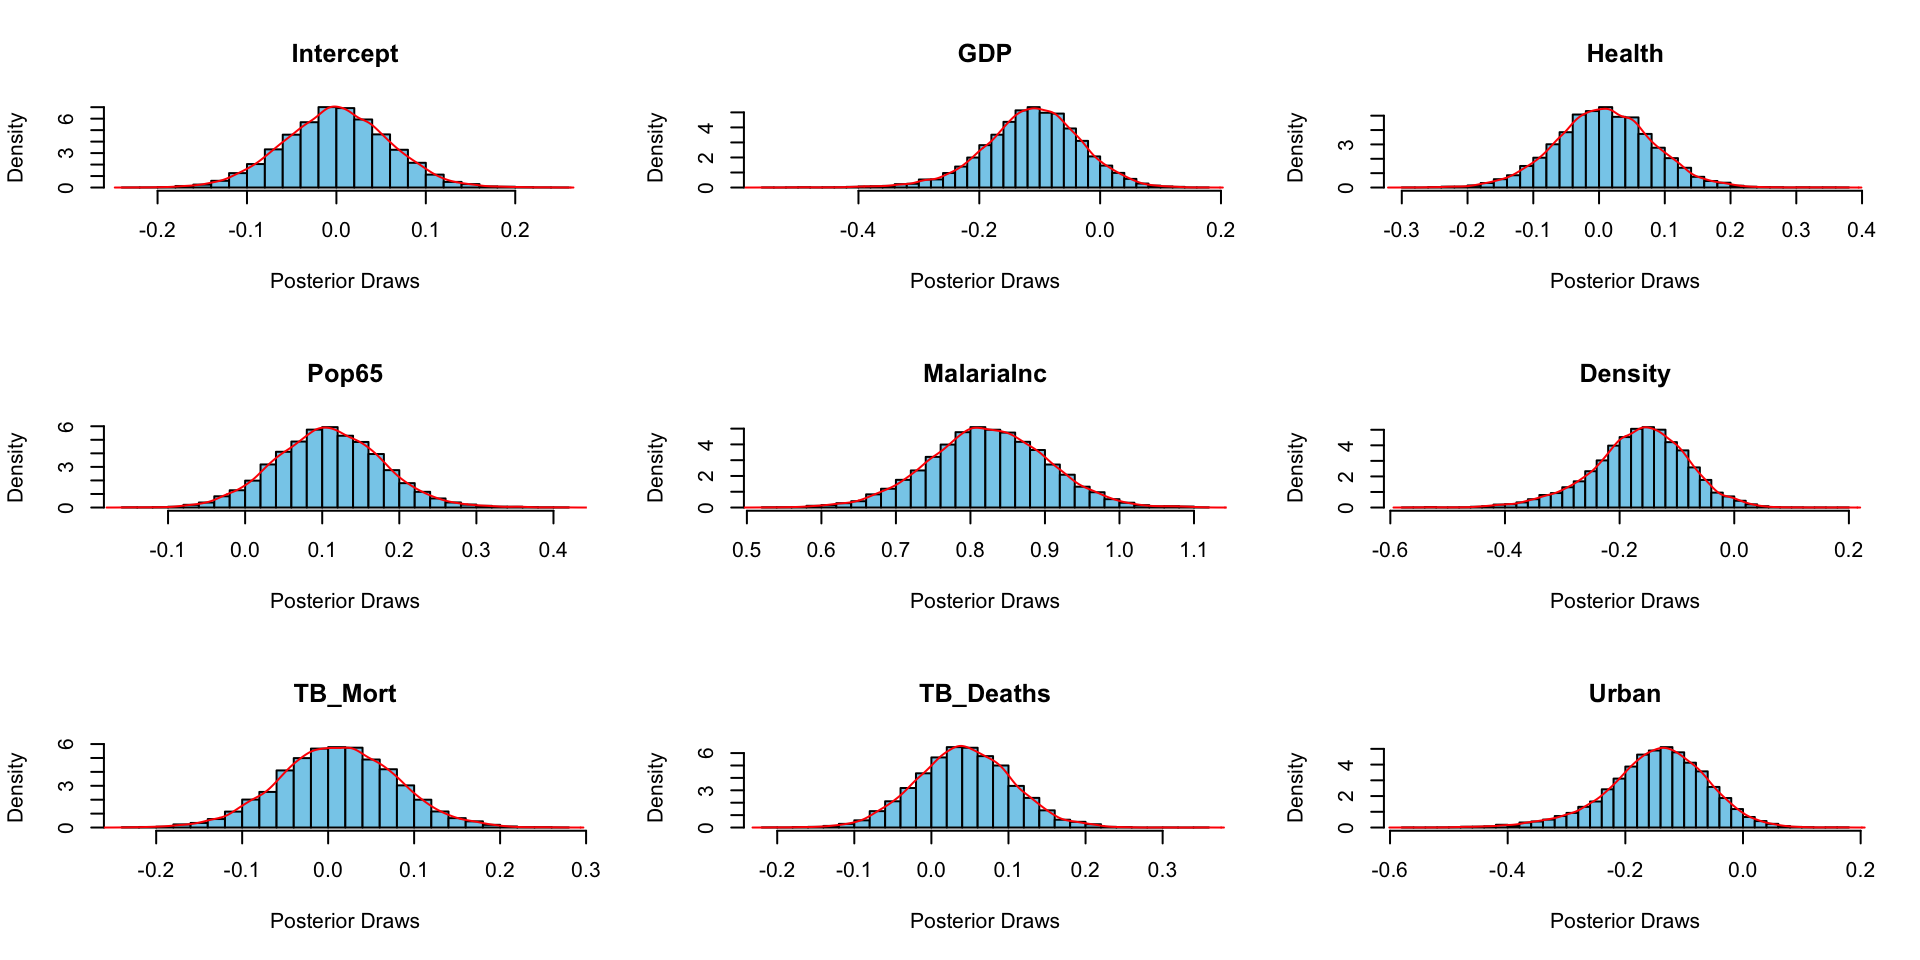
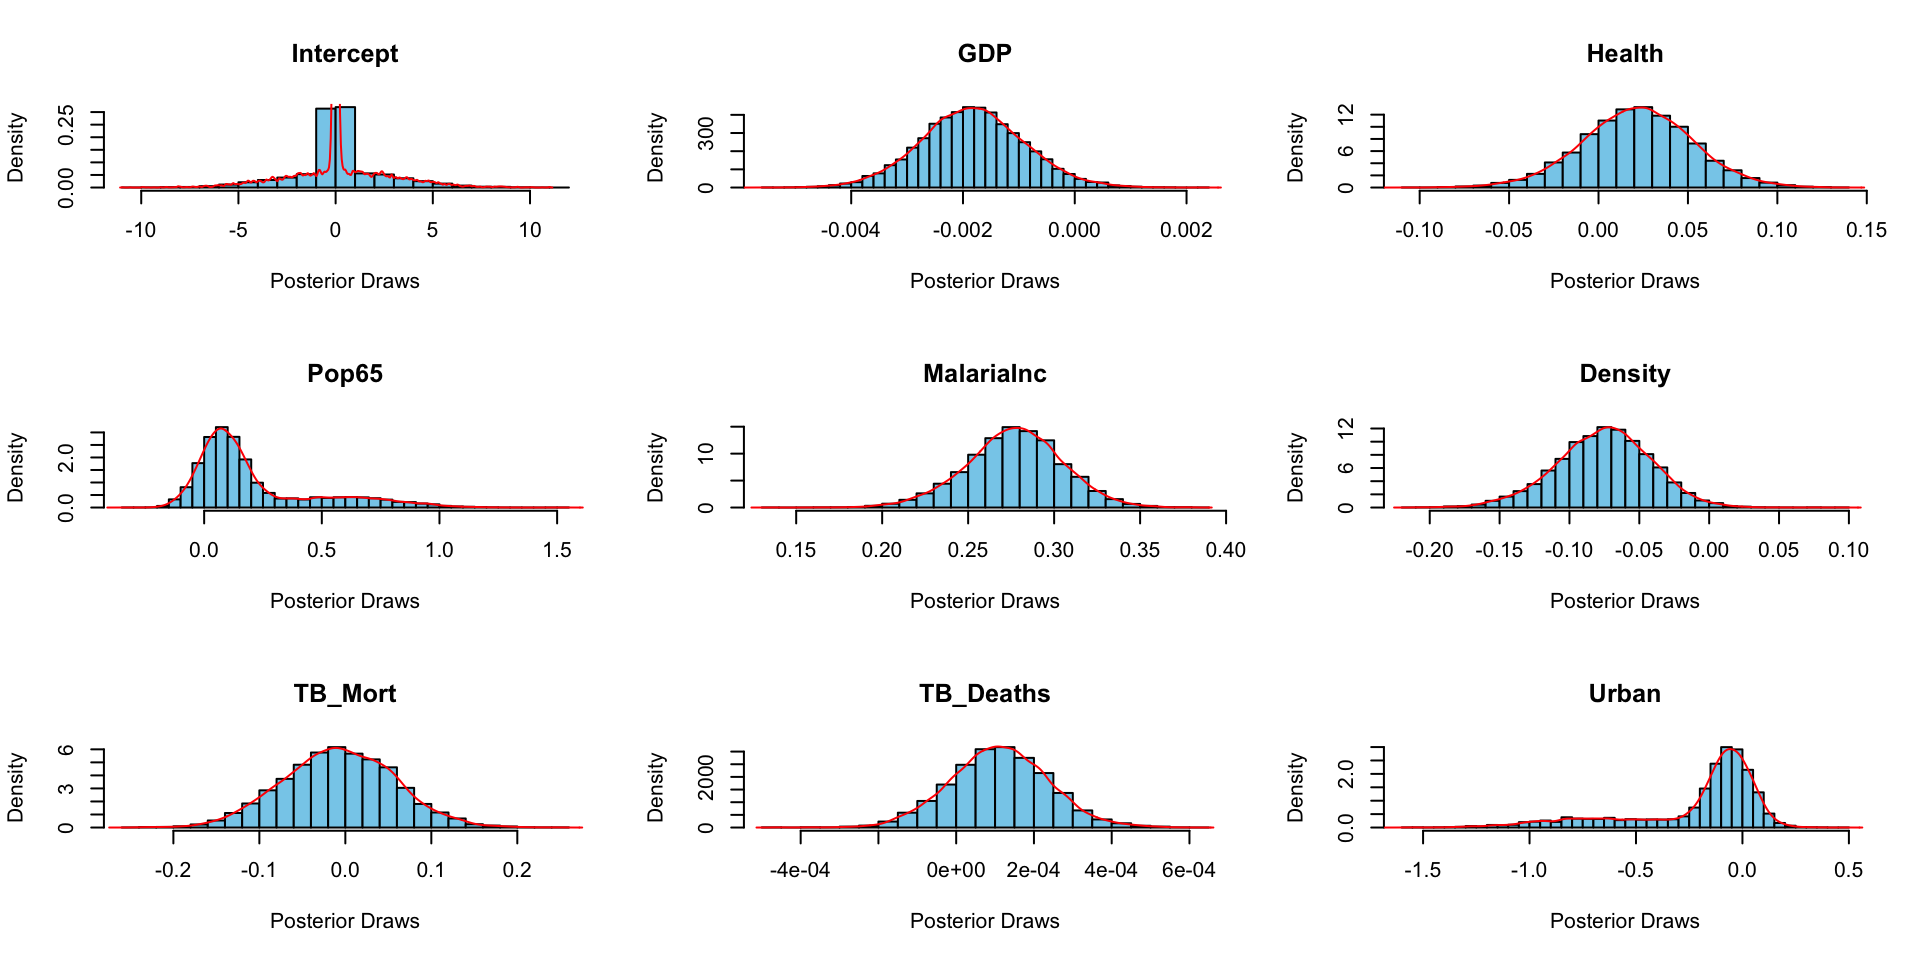
Update

diff --git a/EndTermPresentation.html b/EndTermPresentation.html
@@ -434,13 +434,13 @@ Franz-Xaver Wienerroither and Lucas Stadler
 <pre><code>[1] "Normalized data"</code></pre>
 </div>
 <div class="cell-output cell-output-stdout">
-<pre><code>       GDP Health Pop65 MalariaInc Density TB_Mort TB_Deaths Urban
-[1,]  0.94   0.25  1.12      -0.32   -0.62    0.54      0.30  1.45
-[2,] -0.29  -0.50  0.42       1.29    0.05   -1.12     -0.52  0.35
-[3,] -0.44  -0.41  0.54       1.73   -0.23   -1.15     -0.50 -0.71
-[4,] -0.66  -0.62  0.10      -0.17    2.87   -0.79     -0.47 -1.78
-[5,]  0.02  -0.21 -0.41       0.34   -0.40    0.05     -0.04  1.44
-[6,] -0.61  -0.69 -0.08       1.03   -0.75    2.78     -0.24  0.13</code></pre>
+<pre><code>         GDP Health Pop65 MalariaInc Density TB_Mort TB_Deaths Urban
+[1,] 9516.49 193.01 73.83     187.64   21.85   90.00  24272.73 61.27
+[2,] 2934.26  76.07 68.69     397.96   98.15   13.09   1381.82 44.64
+[3,] 2085.61  90.72 69.59     456.25   66.80   11.94   2145.45 28.63
+[4,]  924.69  58.44 66.41     207.51  415.11   28.64   2909.09 12.56
+[5,] 4574.80 121.58 62.66     274.35   46.91   67.36  14818.18 61.06
+[6,] 1224.41  47.11 65.09     364.89    7.50  193.82   9354.55 41.39</code></pre>
 </div>
 </div>
 </section>
@@ -505,24 +505,24 @@ Call:
 lm(formula = Y ~ . - Intercept, data = M_scale)
 
 Residuals:
-     Min       1Q   Median       3Q      Max 
--0.78419 -0.19350 -0.00145  0.19121  1.11901 
+    Min      1Q  Median      3Q     Max 
+-33.658  -8.305  -0.062   8.207  48.029 
 
 Coefficients:
               Estimate Std. Error t value Pr(&gt;|t|)    
-(Intercept)  3.595e-16  6.856e-02   0.000  1.00000    
-GDP         -1.943e-01  1.069e-01  -1.817  0.07956 .  
-Health       1.026e-01  1.099e-01   0.933  0.35840    
-Pop65        2.067e-01  7.908e-02   2.614  0.01405 *  
-MalariaInc   8.215e-01  7.640e-02  10.753 1.24e-11 ***
-Density     -2.828e-01  8.244e-02  -3.430  0.00183 ** 
-TB_Mort     -7.404e-03  8.717e-02  -0.085  0.93289    
-TB_Deaths    7.851e-02  7.445e-02   1.055  0.30033    
-Urban       -2.689e-01  9.078e-02  -2.962  0.00604 ** 
+(Intercept) -4.157e+01  3.006e+01  -1.383  0.17724    
+GDP         -1.552e-03  8.540e-04  -1.817  0.07956 .  
+Health       2.846e-02  3.049e-02   0.933  0.35840    
+Pop65        1.210e+00  4.631e-01   2.614  0.01405 *  
+MalariaInc   2.699e-01  2.510e-02  10.753 1.24e-11 ***
+Density     -1.078e-01  3.142e-02  -3.430  0.00183 ** 
+TB_Mort     -6.866e-03  8.083e-02  -0.085  0.93289    
+TB_Deaths    1.217e-04  1.154e-04   1.055  0.30033    
+Urban       -7.668e-01  2.589e-01  -2.962  0.00604 ** 
 ---
 Signif. codes:  0 '***' 0.001 '**' 0.01 '*' 0.05 '.' 0.1 ' ' 1
 
-Residual standard error: 0.4226 on 29 degrees of freedom
+Residual standard error: 18.14 on 29 degrees of freedom
 Multiple R-squared:   0.86, Adjusted R-squared:  0.8214 
 F-statistic: 22.27 on 8 and 29 DF,  p-value: 2.033e-10</code></pre>
 </div>
@@ -674,15 +674,15 @@ F-statistic: 22.27 on 8 and 29 DF,  p-value: 2.033e-10</code></pre>
 <div class="cell">
 <div class="cell-output cell-output-stdout">
 <pre><code>    Variable   PIP PostMean
-5 MalariaInc 1.000    0.824
-6    Density 0.206   -0.166
-9      Urban 0.172   -0.147
-2        GDP 0.107   -0.112
-4      Pop65 0.091    0.109
-8  TB_Deaths 0.044    0.043
-3     Health 0.043    0.008
-7    TB_Mort 0.043    0.011
-1  Intercept 0.037    0.000</code></pre>
+5 MalariaInc 0.588    0.277
+1  Intercept 0.491    0.137
+9      Urban 0.304   -0.214
+4      Pop65 0.298    0.207
+6    Density 0.046   -0.076
+7    TB_Mort 0.042   -0.007
+3     Health 0.032    0.022
+8  TB_Deaths 0.030    0.000
+2        GDP 0.029   -0.002</code></pre>
 </div>
 </div>
 </section>
@@ -694,27 +694,27 @@ F-statistic: 22.27 on 8 and 29 DF,  p-value: 2.033e-10</code></pre>
 <h2>Summary Alpha</h2>
 <div class="cell">
 <div class="cell-output cell-output-stdout">
-<pre><code>   Intercept               GDP               Health              Pop65        
- Min.   :-0.2228527   Min.   :-0.55448   Min.   :-0.290115   Min.   :-0.1504  
- 1st Qu.:-0.0391020   1st Qu.:-0.16073   1st Qu.:-0.039970   1st Qu.: 0.0622  
- Median : 0.0001859   Median :-0.10903   Median : 0.007789   Median : 0.1079  
- Mean   : 0.0001285   Mean   :-0.11234   Mean   : 0.008054   Mean   : 0.1088  
- 3rd Qu.: 0.0390459   3rd Qu.:-0.05937   3rd Qu.: 0.056455   3rd Qu.: 0.1541  
- Max.   : 0.2401192   Max.   : 0.17068   Max.   : 0.368216   Max.   : 0.4184  
-   MalariaInc        Density           TB_Mort           TB_Deaths        
- Min.   :0.5202   Min.   :-0.5608   Min.   :-0.23685   Min.   :-0.205681  
- 1st Qu.:0.7715   1st Qu.:-0.2147   1st Qu.:-0.03404   1st Qu.: 0.001402  
- Median :0.8231   Median :-0.1605   Median : 0.01104   Median : 0.042171  
- Mean   :0.8237   Mean   :-0.1659   Mean   : 0.01123   Mean   : 0.042603  
- 3rd Qu.:0.8773   3rd Qu.:-0.1095   3rd Qu.: 0.05705   3rd Qu.: 0.083865  
- Max.   :1.1117   Max.   : 0.1860   Max.   : 0.26798   Max.   : 0.353189  
-     Urban         
- Min.   :-0.56686  
- 1st Qu.:-0.19647  
- Median :-0.14123  
- Mean   :-0.14681  
- 3rd Qu.:-0.08898  
- Max.   : 0.17247  </code></pre>
+<pre><code>   Intercept               GDP                Health         
+ Min.   :-10.953778   Min.   :-0.005596   Min.   :-0.106725  
+ 1st Qu.: -0.150533   1st Qu.:-0.002445   1st Qu.: 0.001466  
+ Median :  0.009463   Median :-0.001840   Median : 0.021988  
+ Mean   :  0.136925   Mean   :-0.001829   Mean   : 0.021712  
+ 3rd Qu.:  0.262132   3rd Qu.:-0.001226   3rd Qu.: 0.042293  
+ Max.   : 11.014724   Max.   : 0.002225   Max.   : 0.135497  
+     Pop65            MalariaInc        Density            TB_Mort         
+ Min.   :-0.33830   Min.   :0.1356   Min.   :-0.21129   Min.   :-0.246962  
+ 1st Qu.: 0.03686   1st Qu.:0.2591   1st Qu.:-0.09733   1st Qu.:-0.051045  
+ Median : 0.11672   Median :0.2774   Median :-0.07440   Median :-0.007435  
+ Mean   : 0.20661   Mean   :0.2768   Mean   :-0.07564   Mean   :-0.007466  
+ 3rd Qu.: 0.26582   3rd Qu.:0.2955   3rd Qu.:-0.05283   3rd Qu.: 0.036887  
+ Max.   : 1.53580   Max.   :0.3800   Max.   : 0.09426   Max.   : 0.247767  
+   TB_Deaths              Urban         
+ Min.   :-4.602e-04   Min.   :-1.59573  
+ 1st Qu.: 2.823e-05   1st Qu.:-0.27432  
+ Median : 1.110e-04   Median :-0.09711  
+ Mean   : 1.115e-04   Mean   :-0.21363  
+ 3rd Qu.: 1.954e-04   3rd Qu.:-0.01285  
+ Max.   : 6.082e-04   Max.   : 0.47940  </code></pre>
 </div>
 </div>
 </section>
@@ -722,13 +722,13 @@ F-statistic: 22.27 on 8 and 29 DF,  p-value: 2.033e-10</code></pre>
 <h2>Summary Sigma</h2>
 <div class="cell">
 <div class="cell-output cell-output-stdout">
-<pre><code>     Sigma        
- Min.   :0.07692  
- 1st Qu.:0.16515  
- Median :0.19752  
- Mean   :0.20675  
- 3rd Qu.:0.23760  
- Max.   :0.64148  </code></pre>
+<pre><code>     Sigma       
+ Min.   : 155.0  
+ 1st Qu.: 335.9  
+ Median : 401.6  
+ Mean   : 420.5  
+ 3rd Qu.: 483.1  
+ Max.   :1398.6  </code></pre>
 </div>
 </div>
 </section>
@@ -736,26 +736,26 @@ F-statistic: 22.27 on 8 and 29 DF,  p-value: 2.033e-10</code></pre>
 <h2>Summary Gamma</h2>
 <div class="cell">
 <div class="cell-output cell-output-stdout">
-<pre><code>   Intercept           GDP             Health           Pop65      
- Min.   :0.0000   Min.   :0.0000   Min.   :0.0000   Min.   :0.000  
- 1st Qu.:0.0000   1st Qu.:0.0000   1st Qu.:0.0000   1st Qu.:0.000  
- Median :0.0000   Median :0.0000   Median :0.0000   Median :0.000  
- Mean   :0.0366   Mean   :0.1067   Mean   :0.0428   Mean   :0.091  
- 3rd Qu.:0.0000   3rd Qu.:0.0000   3rd Qu.:0.0000   3rd Qu.:0.000  
- Max.   :1.0000   Max.   :1.0000   Max.   :1.0000   Max.   :1.000  
-   MalariaInc    Density          TB_Mort         TB_Deaths     
- Min.   :1    Min.   :0.0000   Min.   :0.0000   Min.   :0.0000  
- 1st Qu.:1    1st Qu.:0.0000   1st Qu.:0.0000   1st Qu.:0.0000  
- Median :1    Median :0.0000   Median :0.0000   Median :0.0000  
- Mean   :1    Mean   :0.2061   Mean   :0.0427   Mean   :0.0435  
- 3rd Qu.:1    3rd Qu.:0.0000   3rd Qu.:0.0000   3rd Qu.:0.0000  
- Max.   :1    Max.   :1.0000   Max.   :1.0000   Max.   :1.0000  
+<pre><code>   Intercept           GDP             Health           Pop65       
+ Min.   :0.0000   Min.   :0.0000   Min.   :0.0000   Min.   :0.0000  
+ 1st Qu.:0.0000   1st Qu.:0.0000   1st Qu.:0.0000   1st Qu.:0.0000  
+ Median :0.0000   Median :0.0000   Median :0.0000   Median :0.0000  
+ Mean   :0.4907   Mean   :0.0287   Mean   :0.0324   Mean   :0.2981  
+ 3rd Qu.:1.0000   3rd Qu.:0.0000   3rd Qu.:0.0000   3rd Qu.:1.0000  
+ Max.   :1.0000   Max.   :1.0000   Max.   :1.0000   Max.   :1.0000  
+   MalariaInc        Density          TB_Mort         TB_Deaths     
+ Min.   :0.0000   Min.   :0.0000   Min.   :0.0000   Min.   :0.0000  
+ 1st Qu.:0.0000   1st Qu.:0.0000   1st Qu.:0.0000   1st Qu.:0.0000  
+ Median :1.0000   Median :0.0000   Median :0.0000   Median :0.0000  
+ Mean   :0.5885   Mean   :0.0461   Mean   :0.0417   Mean   :0.0295  
+ 3rd Qu.:1.0000   3rd Qu.:0.0000   3rd Qu.:0.0000   3rd Qu.:0.0000  
+ Max.   :1.0000   Max.   :1.0000   Max.   :1.0000   Max.   :1.0000  
      Urban       
  Min.   :0.0000  
  1st Qu.:0.0000  
  Median :0.0000  
- Mean   :0.1722  
- 3rd Qu.:0.0000  
+ Mean   :0.3037  
+ 3rd Qu.:1.0000  
  Max.   :1.0000  </code></pre>
 </div>
 </div>
@@ -764,51 +764,92 @@ F-statistic: 22.27 on 8 and 29 DF,  p-value: 2.033e-10</code></pre>
 <h2>Posterior Inclusion Probabilities</h2>
 
 <img data-src="EndTermPresentation_files/figure-revealjs/unnamed-chunk-18-1.png" width="960" class="r-stretch"></section></section>
+<section>
 <section id="leave-one-out" class="title-slide slide level1 center">
 <h1>Leave-one-out</h1>
+
+</section>
+<section id="hyperparameters" class="slide level2">
+<h2>Hyperparameters</h2>
+</section>
+<section id="loo" class="slide level2">
+<h2>LOO</h2>
 <div class="cell">
-<div class="cell-output cell-output-stdout">
-<pre><code>LOO fold 1 of 38 
-LOO fold 2 of 38 
-LOO fold 3 of 38 
-LOO fold 4 of 38 
-LOO fold 5 of 38 
-LOO fold 6 of 38 
-LOO fold 7 of 38 
-LOO fold 8 of 38 
-LOO fold 9 of 38 
-LOO fold 10 of 38 
-LOO fold 11 of 38 
-LOO fold 12 of 38 
-LOO fold 13 of 38 
-LOO fold 14 of 38 
-LOO fold 15 of 38 
-LOO fold 16 of 38 
-LOO fold 17 of 38 
-LOO fold 18 of 38 
-LOO fold 19 of 38 
-LOO fold 20 of 38 
-LOO fold 21 of 38 
-LOO fold 22 of 38 
-LOO fold 23 of 38 
-LOO fold 24 of 38 
-LOO fold 25 of 38 
-LOO fold 26 of 38 
-LOO fold 27 of 38 
-LOO fold 28 of 38 
-LOO fold 29 of 38 
-LOO fold 30 of 38 
-LOO fold 31 of 38 
-LOO fold 32 of 38 
-LOO fold 33 of 38 
-LOO fold 34 of 38 
-LOO fold 35 of 38 
-LOO fold 36 of 38 
-LOO fold 37 of 38 
-LOO fold 38 of 38 </code></pre>
+<div class="sourceCode cell-code" id="cb20"><pre class="sourceCode numberSource r number-lines code-with-copy"><code class="sourceCode r"><span id="cb20-1"><a href=""></a><span class="co"># ---------- 3. LOO loop --------------------------------------------------</span></span>
+<span id="cb20-2"><a href=""></a><span class="cf">for</span> (i <span class="cf">in</span> <span class="dv">1</span><span class="sc">:</span>N) {</span>
+<span id="cb20-3"><a href=""></a>  <span class="fu">cat</span>(<span class="st">"LOO fold"</span>, i, <span class="st">"of"</span>, N, <span class="st">"</span><span class="sc">\n</span><span class="st">"</span>)</span>
+<span id="cb20-4"><a href=""></a>  </span>
+<span id="cb20-5"><a href=""></a>  X_train <span class="ot">&lt;-</span> X_scaled[<span class="sc">-</span>i, ]</span>
+<span id="cb20-6"><a href=""></a>  Y_train <span class="ot">&lt;-</span> Y_scaled[<span class="sc">-</span>i]</span>
+<span id="cb20-7"><a href=""></a>  X_test  <span class="ot">&lt;-</span> X_scaled[i, , drop <span class="ot">=</span> <span class="cn">FALSE</span>]</span>
+<span id="cb20-8"><a href=""></a>  </span>
+<span id="cb20-9"><a href=""></a>  <span class="co"># ----- OLS starting values ----------</span></span>
+<span id="cb20-10"><a href=""></a>  A.OLS <span class="ot">&lt;-</span> <span class="fu">solve</span>(<span class="fu">crossprod</span>(X_train)) <span class="sc">%*%</span> <span class="fu">crossprod</span>(X_train, Y_train)</span>
+<span id="cb20-11"><a href=""></a>  SSE   <span class="ot">&lt;-</span> <span class="fu">crossprod</span>(Y_train <span class="sc">-</span> X_train <span class="sc">%*%</span> A.OLS)</span>
+<span id="cb20-12"><a href=""></a>  SIG.OLS <span class="ot">&lt;-</span> SSE <span class="sc">/</span> (N<span class="dv">-1</span> <span class="sc">-</span> K)</span>
+<span id="cb20-13"><a href=""></a>  </span>
+<span id="cb20-14"><a href=""></a>  gamma <span class="ot">&lt;-</span> <span class="fu">matrix</span>(<span class="dv">1</span>, K, <span class="dv">1</span>)</span>
+<span id="cb20-15"><a href=""></a>  sigma2.draw <span class="ot">&lt;-</span> <span class="fu">as.numeric</span>(SIG.OLS)</span>
+<span id="cb20-16"><a href=""></a>  V.prior <span class="ot">&lt;-</span> <span class="fu">diag</span>(<span class="fu">as.numeric</span>(gamma <span class="sc">*</span> tau1 <span class="sc">+</span> (<span class="dv">1</span><span class="sc">-</span>gamma) <span class="sc">*</span> tau0))</span>
+<span id="cb20-17"><a href=""></a>  </span>
+<span id="cb20-18"><a href=""></a>  <span class="co"># storage for this fold</span></span>
+<span id="cb20-19"><a href=""></a>  alpha_keep  <span class="ot">&lt;-</span> <span class="fu">matrix</span>(<span class="cn">NA</span>, nsave, K)</span>
+<span id="cb20-20"><a href=""></a>  gamma_keep  <span class="ot">&lt;-</span> <span class="fu">matrix</span>(<span class="cn">NA</span>, nsave, K)</span>
+<span id="cb20-21"><a href=""></a>  sigma_keep  <span class="ot">&lt;-</span> <span class="fu">numeric</span>(nsave)</span>
+<span id="cb20-22"><a href=""></a>  y_pred_keep <span class="ot">&lt;-</span> <span class="fu">numeric</span>(nsave)</span>
+<span id="cb20-23"><a href=""></a><span class="co"># ------------- Gibbs sampler -----------------</span></span>
+<span id="cb20-24"><a href=""></a>  <span class="cf">for</span> (rep <span class="cf">in</span> <span class="dv">1</span><span class="sc">:</span>ntot){</span>
+<span id="cb20-25"><a href=""></a>    </span>
+<span id="cb20-26"><a href=""></a>    <span class="co"># 1. β | rest</span></span>
+<span id="cb20-27"><a href=""></a>    V.post <span class="ot">&lt;-</span> <span class="fu">solve</span>(<span class="fu">crossprod</span>(X_train) <span class="sc">/</span> sigma2.draw <span class="sc">+</span></span>
+<span id="cb20-28"><a href=""></a>                      <span class="fu">diag</span>(<span class="dv">1</span> <span class="sc">/</span> <span class="fu">diag</span>(V.prior)))</span>
+<span id="cb20-29"><a href=""></a>    A.post <span class="ot">&lt;-</span> V.post <span class="sc">%*%</span> (<span class="fu">crossprod</span>(X_train, Y_train) <span class="sc">/</span> sigma2.draw)</span>
+<span id="cb20-30"><a href=""></a>    A.draw <span class="ot">&lt;-</span> A.post <span class="sc">+</span> <span class="fu">t</span>(<span class="fu">chol</span>(V.post)) <span class="sc">%*%</span> <span class="fu">rnorm</span>(K)</span>
+<span id="cb20-31"><a href=""></a>    </span>
+<span id="cb20-32"><a href=""></a>    <span class="co"># 2. γ | rest</span></span>
+<span id="cb20-33"><a href=""></a>    <span class="cf">for</span> (j <span class="cf">in</span> <span class="dv">1</span><span class="sc">:</span>K){</span>
+<span id="cb20-34"><a href=""></a>      p0 <span class="ot">&lt;-</span> <span class="fu">dnorm</span>(A.draw[j], <span class="dv">0</span>, <span class="fu">sqrt</span>(tau0))</span>
+<span id="cb20-35"><a href=""></a>      p1 <span class="ot">&lt;-</span> <span class="fu">dnorm</span>(A.draw[j], <span class="dv">0</span>, <span class="fu">sqrt</span>(tau1))</span>
+<span id="cb20-36"><a href=""></a>      gamma[j] <span class="ot">&lt;-</span> <span class="fu">rbinom</span>(<span class="dv">1</span>, <span class="dv">1</span>, p1<span class="sc">/</span>(p0<span class="sc">+</span>p1))</span>
+<span id="cb20-37"><a href=""></a>    }</span>
+<span id="cb20-38"><a href=""></a>    V.prior <span class="ot">&lt;-</span> <span class="fu">diag</span>(<span class="fu">as.numeric</span>(gamma <span class="sc">*</span> tau1 <span class="sc">+</span> (<span class="dv">1</span><span class="sc">-</span>gamma) <span class="sc">*</span> tau0))</span>
+<span id="cb20-39"><a href=""></a>    </span>
+<span id="cb20-40"><a href=""></a>    <span class="co"># 3. σ² | rest</span></span>
+<span id="cb20-41"><a href=""></a>    S.post <span class="ot">&lt;-</span> <span class="fu">crossprod</span>(Y_train <span class="sc">-</span> X_train <span class="sc">%*%</span> A.draw)<span class="sc">/</span><span class="dv">2</span> <span class="sc">+</span> S0</span>
+<span id="cb20-42"><a href=""></a>    s.post <span class="ot">&lt;-</span> S0 <span class="sc">+</span> (N<span class="dv">-1</span>)<span class="sc">/</span><span class="dv">2</span></span>
+<span id="cb20-43"><a href=""></a>    sigma2.draw <span class="ot">&lt;-</span> <span class="dv">1</span> <span class="sc">/</span> <span class="fu">rgamma</span>(<span class="dv">1</span>, s.post, S.post)</span>
+<span id="cb20-44"><a href=""></a>    </span>
+<span id="cb20-45"><a href=""></a>    <span class="co"># ---- store after burn-in</span></span>
+<span id="cb20-46"><a href=""></a>    <span class="cf">if</span> (rep <span class="sc">&gt;</span> nburn) {</span>
+<span id="cb20-47"><a href=""></a>      m <span class="ot">&lt;-</span> rep <span class="sc">-</span> nburn</span>
+<span id="cb20-48"><a href=""></a>      alpha_keep[m, ]  <span class="ot">&lt;-</span> A.draw</span>
+<span id="cb20-49"><a href=""></a>      gamma_keep[m, ]  <span class="ot">&lt;-</span> gamma</span>
+<span id="cb20-50"><a href=""></a>      sigma_keep[m]    <span class="ot">&lt;-</span> sigma2.draw</span>
+<span id="cb20-51"><a href=""></a>      y_pred_keep[m]   <span class="ot">&lt;-</span> X_test <span class="sc">%*%</span> A.draw                <span class="co"># mean prediction</span></span>
+<span id="cb20-52"><a href=""></a>    }</span>
+<span id="cb20-53"><a href=""></a>  } <span class="co"># end Gibbs</span></span>
+<span id="cb20-54"><a href=""></a></span>
+<span id="cb20-55"><a href=""></a><span class="co"># Posterior predictive mean for left-out obs</span></span>
+<span id="cb20-56"><a href=""></a>  pred_scaled[i] <span class="ot">&lt;-</span> <span class="fu">mean</span>(y_pred_keep)</span>
+<span id="cb20-57"><a href=""></a>  pip_mat[i, ]   <span class="ot">&lt;-</span> <span class="fu">colMeans</span>(gamma_keep)</span>
+<span id="cb20-58"><a href=""></a>}</span></code><button title="Copy to Clipboard" class="code-copy-button"><i class="bi"></i></button></pre></div>
 </div>
-</div>
+</section>
+<section id="back-transform-predictions-and-evaluate" class="slide level2">
+<h2>Back transform predictions and evaluate</h2>
 <div class="cell">
+<div class="sourceCode cell-code" id="cb21"><pre class="sourceCode numberSource r number-lines code-with-copy"><code class="sourceCode r"><span id="cb21-1"><a href=""></a><span class="co"># ---------- 4. Back-transform predictions &amp; evaluate  --------------------</span></span>
+<span id="cb21-2"><a href=""></a>pred_original <span class="ot">&lt;-</span> pred_scaled <span class="sc">*</span> Y_sd <span class="sc">+</span> Y_mean</span>
+<span id="cb21-3"><a href=""></a></span>
+<span id="cb21-4"><a href=""></a>loo_results <span class="ot">&lt;-</span> <span class="fu">data.frame</span>(</span>
+<span id="cb21-5"><a href=""></a>  <span class="at">Country   =</span> dat<span class="sc">$</span>Entity.x,</span>
+<span id="cb21-6"><a href=""></a>  <span class="at">True      =</span> Y_raw,</span>
+<span id="cb21-7"><a href=""></a>  <span class="at">Predicted =</span> pred_original,</span>
+<span id="cb21-8"><a href=""></a>  <span class="at">Error     =</span> pred_original <span class="sc">-</span> Y_raw,</span>
+<span id="cb21-9"><a href=""></a>  <span class="at">MSE =</span> (pred_original <span class="sc">-</span> Y_raw)<span class="sc">^</span><span class="dv">2</span></span>
+<span id="cb21-10"><a href=""></a>)</span>
+<span id="cb21-11"><a href=""></a></span>
+<span id="cb21-12"><a href=""></a><span class="fu">print</span>(<span class="fu">head</span>(loo_results, <span class="dv">10</span>))</span></code><button title="Copy to Clipboard" class="code-copy-button"><i class="bi"></i></button></pre></div>
 <div class="cell-output cell-output-stdout">
 <pre><code>                    Country       True Predicted       Error          MSE
 1                    Angola  46.794897  42.63434  -4.1605555   17.3102220
@@ -822,10 +863,14 @@ LOO fold 38 of 38 </code></pre>
 9                     Congo  40.665282  41.84449   1.1792105    1.3905375
 10            Cote d'Ivoire  68.569683  74.42511   5.8554265   34.2860190</code></pre>
 </div>
+<div class="sourceCode cell-code" id="cb23"><pre class="sourceCode numberSource r number-lines code-with-copy"><code class="sourceCode r"><span id="cb23-1"><a href=""></a><span class="fu">cat</span>(<span class="st">"RMSE: "</span>, <span class="fu">sqrt</span>(<span class="fu">mean</span>(loo_results<span class="sc">$</span>Error<span class="sc">^</span><span class="dv">2</span>)), <span class="st">"</span><span class="sc">\n</span><span class="st">"</span>)</span></code><button title="Copy to Clipboard" class="code-copy-button"><i class="bi"></i></button></pre></div>
 <div class="cell-output cell-output-stdout">
 <pre><code>RMSE:  23.02725 </code></pre>
 </div>
 </div>
+</section>
+<section id="posterior-inclusion-probabilities-1" class="slide level2">
+<h2>Posterior inclusion probabilities</h2>
 <div class="cell">
 <div class="cell-output cell-output-stdout">
 <pre><code>[1] 0.092 0.113 0.101 0.111 0.699 0.129 0.094 0.097 0.127</code></pre>
@@ -837,7 +882,7 @@ LOO fold 38 of 38 </code></pre>
 
 </div>
 </div>
-</section>
+</section></section>
     </div>
   </div>
 
